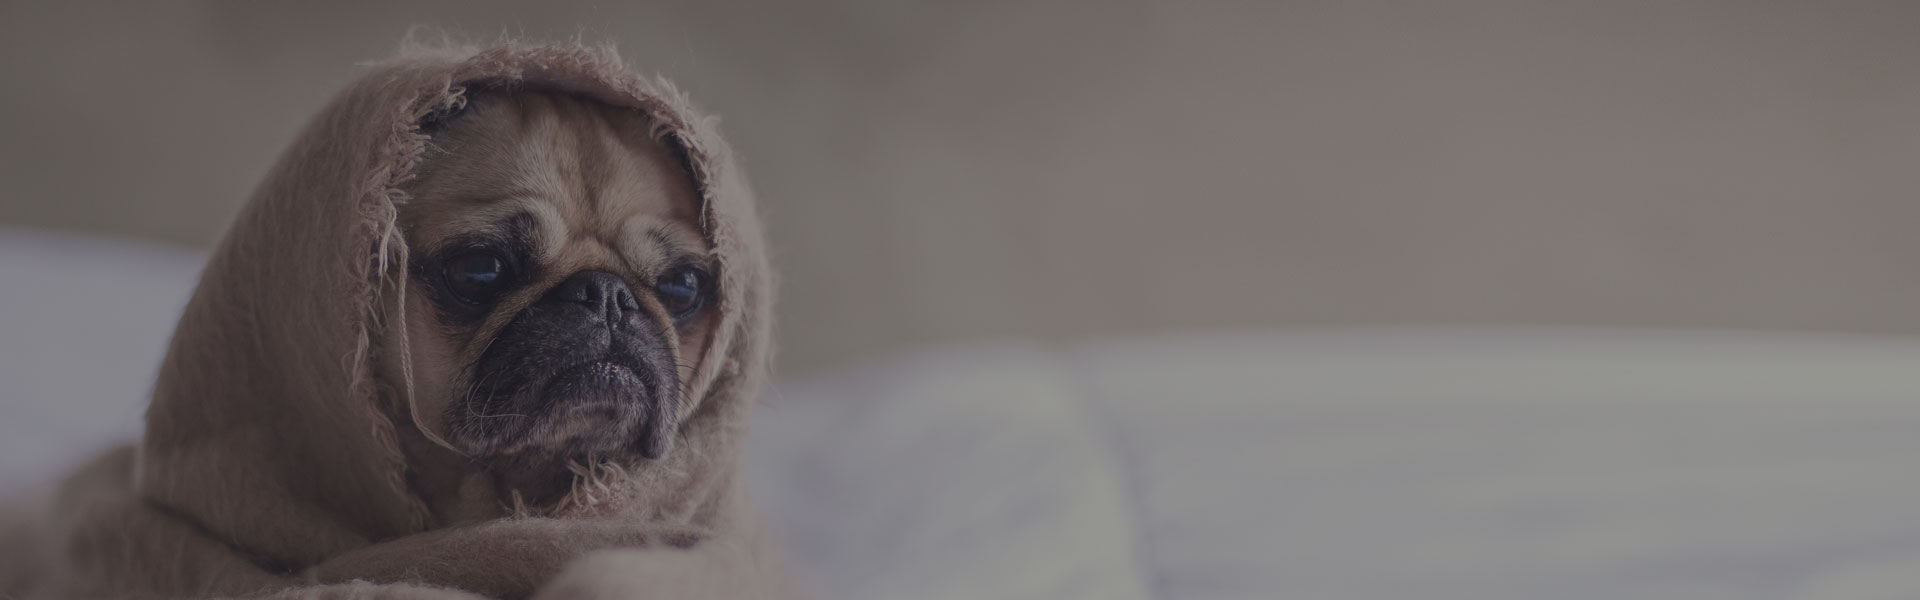
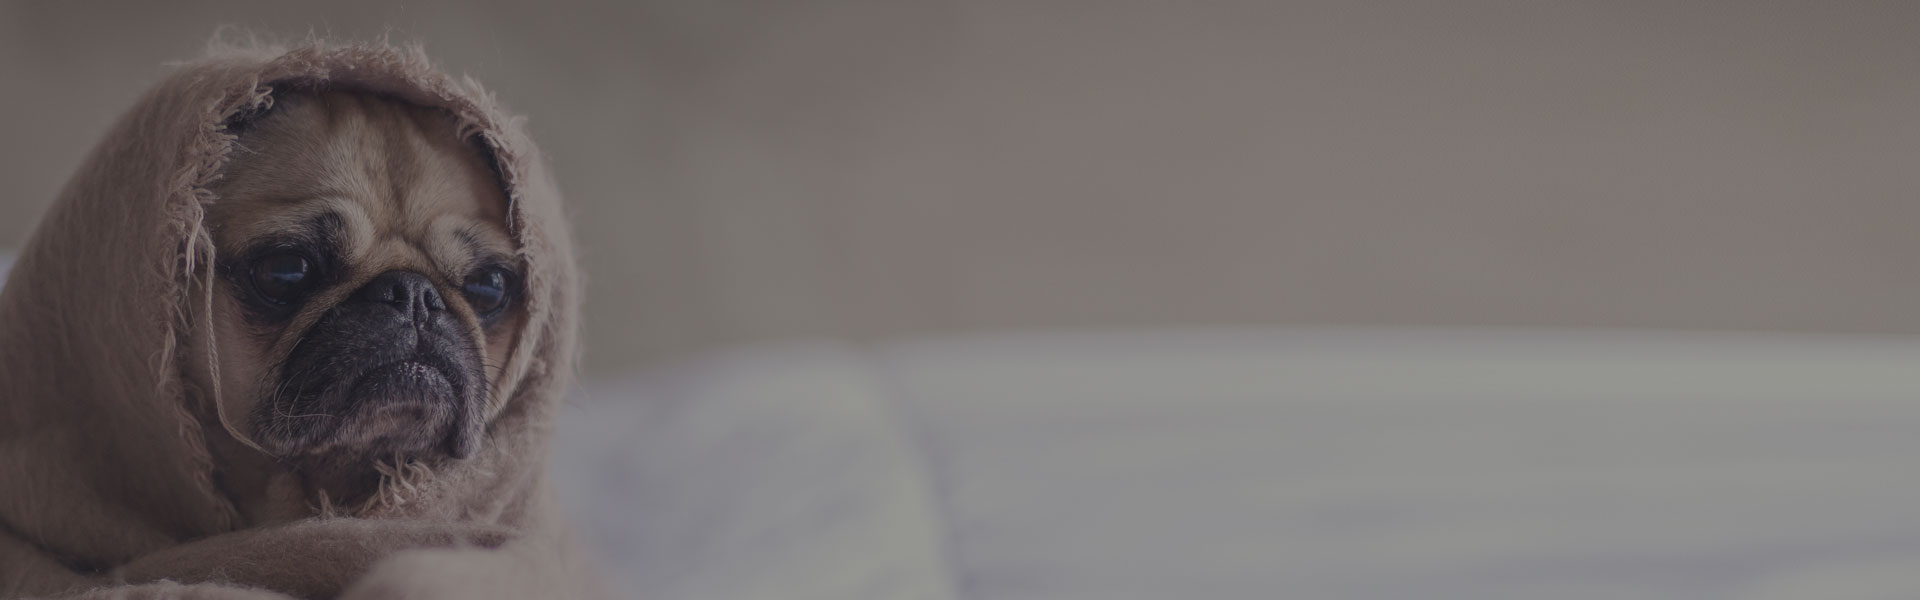
Added secrets button, so now you may add a secret. Currently doesn't save secret.

Changed region(s): [[0.0, 0.06, 0.4688, 1.0]]

diff --git a/routes/index.js b/routes/index.js
@@ -26,8 +26,19 @@ router.get('/badLogin', function(req,res,next){
 router.post('/index', function(req, res, next) {
   // SELECT password from DB where username='req.body.yourName'
     
-  if (req.body.passWord == "password") {
-    res.render('secrets');
+  if (req.body.userName == "Cole" && req.body.passWord == "password") {
+    res.render('secrets', {name: req.body.userName});
+  }
+  else {
+      res.redirect('/badLogin');
+  }
+});
+
+router.post('/badLogin', function(req, res, next) {
+  // SELECT password from DB where username='req.body.yourName'
+    
+  if (req.body.userName == "Cole" && req.body.passWord == "password") {
+    res.redirect('secrets', {name: req.body.userName});
   }
   else {
       res.redirect('/badLogin');
@@ -36,16 +47,5 @@ router.post('/index', function(req, res, next) {
 
 router.post('/logout', function(req, res, next) {
     res.render('index');
-});
-
-router.post('/badLogin', function(req, res, next) {
-  // SELECT password from DB where username='req.body.yourName'
-    
-  if (req.body.passWord == "password") {
-    res.render('secrets');
-  }
-  else {
-      res.redirect('/badLogin');
-  }
 });
 module.exports = router;

diff --git a/public/stylesheets/style.css b/public/stylesheets/style.css
@@ -1,19 +1,33 @@
 .jumbotron {
-background:#333333;
-background-size:cover;
-height:600px !important;
+    background-size: cover;
+    background-color:#333333;
+    color:#f8f8f8
 }
 
 .home{
     background-image: url("../images/banner-web.jpg");
+    height:500px !important;
+    background-position: left;
 }
 
 .badLogin{
     background-image: url("../images/bad-banner-web.jpg");
+    height:500px !important;
+    background-position: left;
 }
 
 .secret{
     background-image: url("../images/secret-banner-web.jpg");
+    height:500px !important;
+    background-position: left;
+}
+
+.secretForm{
+    padding:10px 10px 20px 10px;
+}
+
+.secret-btn{
+    margin-top:10px;
 }
 
 .vertical-center {
@@ -41,6 +55,14 @@ h1 {
 
 h3 {
 	text-align:center;
+}
+
+hr{
+    margin-top:10px;
+}
+
+.secret-hr{
+    margin:0px !important;
 }
 
 .bannerh1{
